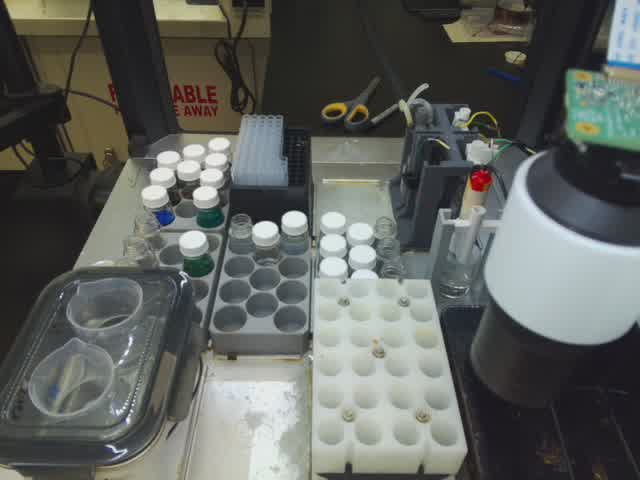
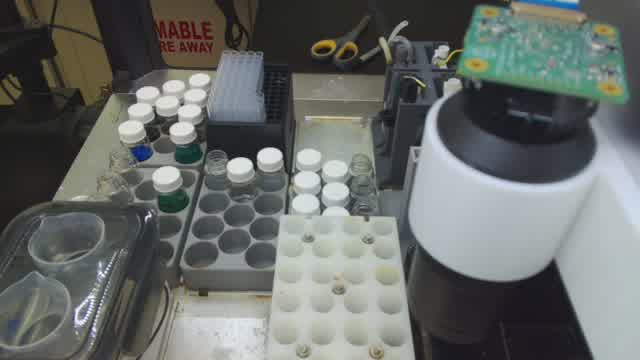
Update README and camserver to support dynamic recording presets (720p/1080p)

diff --git a/pi/camserver.py b/pi/camserver.py
@@ -16,8 +16,8 @@ HTTP API (default port 8080):
   GET /record/stop           stop recording
   GET /files                 JSON list of recordings
 
-Usage:  camserver.py [--port 8080] [--size auto|1280x720] [--fps 30] [--quality very_high]
-                     [--bitrate N] [--rotate180 0,1] [--outdir ~/recordings] [--autorecord]
+Usage:  camserver.py [--port 8080] [--profile 720p|1080p] [--fps 30] [--rotate180 0,1]
+                     [--outdir ~/recordings] [--autorecord]   (GET /profile?set=1080p switches live)
 """
 import argparse
 import datetime as dt
@@ -51,6 +51,15 @@ MODEL_NAMES = {
 }
 
 
+# Recording presets, switchable at runtime from the web page or GET /profile?set=<name>.
+# "1080p" is per camera: a 16:9 sensor gives 1920x1080; a 4:3 sensor (Camera V2) gives its full-view
+# 1640x1232 instead, because the V2's native 1920x1080 mode is a centre crop that loses most of the view.
+PROFILES = {
+    "720p": {"size": (1280, 720), "quality": Quality.HIGH},          # cool: ~15 % CPU per camera
+    "1080p": {"size": "1080p", "quality": Quality.VERY_HIGH},        # hot: throttles without a fan
+}
+
+
 class StreamingOutput(io.BufferedIOBase):
     """Holds the latest MJPEG frame; wakes HTTP clients when a new one arrives."""
 
@@ -73,42 +82,65 @@ class Cam:
     funnelled through one long-lived worker thread.
     """
 
-    def __init__(self, index, info, size, fps, lores, outdir, bitrate, quality, preview_quality, rotate180=False):
+    def __init__(self, index, info, profile, fps, lores, outdir, bitrate, preview_quality, rotate180=False):
         self.index = index
         self.model = info.get("Model", "unknown")
         self.name = MODEL_NAMES.get(self.model, self.model)
         self.outdir = Path(outdir)
-        self.bitrate = bitrate or None          # None -> derive from quality
-        self.quality = quality
+        self.bitrate = bitrate or None          # None -> derive from the profile's quality
         self.preview_quality = preview_quality
         self.rotate180 = rotate180
+        self.fps = fps
+        self.lores_req = lores                  # None -> 640 wide, same aspect as the recording
         self.recording_file = None
         self.lock = threading.Lock()
         self.worker = ThreadPoolExecutor(max_workers=1, thread_name_prefix=f"cam{index}-ctl")
 
         self.picam = Picamera2(camera_num=index)
-        size, sensor = pick_size(self.picam, size, fps)
-        if lores is None:   # same aspect as the recording, 640 wide
-            lores = (640, (640 * size[1] // size[0]) & ~1)
-        self.size, self.lores, self.fps = size, lores, fps
+        self.preview = StreamingOutput()
+        self.mjpeg = None
+        self.h264 = None
+        self.profile = None
+        self._apply(profile)
+
+    def _apply(self, profile):
+        """(Re)configure the camera for a profile and restart the MJPEG preview. Only called from
+        __init__ or the worker thread, never while recording."""
+        spec = PROFILES[profile]
+        size, sensor = pick_size(self.picam, spec["size"], self.fps)
+        lores = self.lores_req or (640, (640 * size[1] // size[0]) & ~1)
         cfg = self.picam.create_video_configuration(
             main={"size": size, "format": "YUV420"},
             lores={"size": lores, "format": "YUV420"},
             sensor=sensor,
-            controls={"FrameRate": fps},
-            transform=Transform(hflip=rotate180, vflip=rotate180),   # 180 deg for upside-down mounting
+            controls={"FrameRate": self.fps},
+            transform=Transform(hflip=self.rotate180, vflip=self.rotate180),   # 180 deg for upside-down mounting
         )
+        if self.mjpeg is not None:
+            self.picam.stop_encoder(self.mjpeg)
+            self.picam.stop()
         self.picam.configure(cfg)
-
-        self.preview = StreamingOutput()
-        self.mjpeg = MJPEGEncoder()
-        self.h264 = None
         self.picam.start()
         # MJPEG preview runs for the whole life of the server, from the small stream.
-        self.picam.start_encoder(self.mjpeg, FileOutput(self.preview), quality=preview_quality, name="lores")
-        log.info("cam%d: %s (%s) main=%s sensor=%s lores=%s fps=%s quality=%s preview=%s rotate180=%s", index,
-                 self.model, self.name, size, (sensor or {}).get("output_size"), lores, fps, quality.name,
-                 preview_quality.name, rotate180)
+        self.mjpeg = MJPEGEncoder()
+        self.picam.start_encoder(self.mjpeg, FileOutput(self.preview), quality=self.preview_quality, name="lores")
+        self.profile, self.size, self.lores, self.quality = profile, size, lores, spec["quality"]
+        log.info("cam%d: %s (%s) profile=%s main=%s sensor=%s lores=%s fps=%s quality=%s preview=%s rotate180=%s",
+                 self.index, self.model, self.name, profile, size, (sensor or {}).get("output_size"), lores,
+                 self.fps, self.quality.name, self.preview_quality.name, self.rotate180)
+
+    def set_profile(self, profile):
+        return self.worker.submit(self._set_profile, profile).result()
+
+    def _set_profile(self, profile):
+        with self.lock:
+            if profile not in PROFILES:
+                return {"error": f"unknown profile {profile!r}", "profile": self.profile}
+            if self.h264:
+                return {"error": "stop recording first", "profile": self.profile}
+            if profile != self.profile:
+                self._apply(profile)
+            return {"profile": self.profile, "size": list(self.size)}
 
     def start_recording(self, tag):
         return self.worker.submit(self._start_recording, tag).result()
@@ -163,15 +195,23 @@ INDEX_HTML = """<!doctype html><html><head><meta charset="utf-8"><title>OT-2 Pi 
 <style>body{font-family:system-ui;background:#111;color:#eee;margin:16px}
 .row{display:flex;flex-wrap:wrap;gap:16px}.cam{flex:1 1 480px}img{width:100%%;background:#000;border-radius:6px}
 button{font-size:16px;padding:8px 16px;margin:4px;border-radius:6px;border:0;cursor:pointer}
-#rec{background:#c33;color:#fff}#stop{background:#555;color:#fff}pre{background:#222;padding:8px;border-radius:6px;white-space:pre-wrap}</style>
+#rec{background:#c33;color:#fff}#stop{background:#555;color:#fff}pre{background:#222;padding:8px;border-radius:6px;white-space:pre-wrap}
+.prof{background:#333;color:#ccc}.prof.on{background:#2a7;color:#fff}#msg{color:#fc6;margin-left:8px}</style>
 </head><body><h2>OT-2 Pi Cameras</h2>
 <div><button id="rec" onclick="go('/record/start')">&#9679; Record all</button>
 <button id="stop" onclick="go('/record/stop')">&#9632; Stop</button>
-<button onclick="refresh()">Refresh status</button></div>
+<button onclick="refresh()">Refresh status</button>
+&nbsp; Quality: <button class="prof" id="p720p" onclick="prof('720p')">720p</button>
+<button class="prof" id="p1080p" onclick="prof('1080p')">1080p</button><span id="msg"></span></div>
 <div class="row">%s</div><pre id="status"></pre>
 <script>
 async function go(u){await fetch(u);refresh();}
-async function refresh(){const r=await fetch('/status');document.getElementById('status').textContent=JSON.stringify(await r.json(),null,2);}
+async function prof(p){const m=document.getElementById('msg');m.textContent='switching to '+p+'...';
+  const r=await fetch('/profile?set='+p);const j=await r.json();
+  m.textContent=r.ok?'':(j.cameras||[]).map(c=>c.error).filter(Boolean)[0]||j.error||'failed';refresh();}
+async function refresh(){const r=await fetch('/status');const j=await r.json();
+  document.getElementById('status').textContent=JSON.stringify(j,null,2);
+  for(const p of (j.profiles||[])){const b=document.getElementById('p'+p);if(b)b.className='prof'+(j.profile===p?' on':'');}}
 refresh();setInterval(refresh,3000);
 </script></body></html>"""
 
@@ -195,7 +235,9 @@ def make_handler(cams, outdir):
             out = Path(outdir)
             files = sorted(p.name for p in out.iterdir() if p.suffix in (".mp4", ".h264")) if out.exists() else []
             return {
-                "cameras": [{"index": c.index, "model": c.model, "name": c.name,
+                "profile": cams[0].profile if cams else None,
+                "profiles": list(PROFILES),
+                "cameras": [{"index": c.index, "model": c.model, "name": c.name, "profile": c.profile,
                              "size": list(c.size), "fps": c.fps, "quality": c.quality.name,
                              "rotate180": c.rotate180, "recording": c.recording_file} for c in cams],
                 "recording": any(c.recording_file for c in cams),
@@ -233,6 +275,16 @@ def make_handler(cams, outdir):
 
             if path == "/record/stop":
                 return self._json({"stopped": [c.stop_recording() for c in cams]})
+
+            if path == "/profile":
+                want = q.get("set", [""])[0]
+                if not want:
+                    return self._json({"profile": cams[0].profile if cams else None, "profiles": list(PROFILES)})
+                if want not in PROFILES:
+                    return self._json({"error": f"unknown profile {want!r}", "profiles": list(PROFILES)}, 400)
+                res = [c.set_profile(want) for c in cams]
+                code = 409 if any("error" in r for r in res) else 200
+                return self._json({"profile": cams[0].profile if cams else None, "cameras": res}, code)
 
             if path.startswith("/cam/"):
                 try:
@@ -297,23 +349,37 @@ def pick_size(picam, size, fps):
     full_w = max(m["crop_limits"][2] for m in modes)
     full_h = max(m["crop_limits"][3] for m in modes)
     full = [m for m in modes if tuple(m["crop_limits"]) == (0, 0, full_w, full_h)]
-    if size is not None:
-        return size, None
     ok = [m for m in full if m["fps"] >= fps] or full
-    best = max(ok, key=lambda m: m["size"][0] * m["size"][1])
-    return tuple(best["size"]), {"output_size": tuple(best["size"]), "bit_depth": best["bit_depth"]}
+
+    def sensor_of(m):
+        return {"output_size": tuple(m["size"]), "bit_depth": m["bit_depth"]}
+
+    def area(m):
+        return m["size"][0] * m["size"][1]
+
+    if size is None or size == "1080p":
+        best = max(ok, key=area)
+        w, h = best["size"]
+        if size == "1080p" and h > 1080 and abs(w / h - 16 / 9) < 0.02:
+            return (1920, 1080), sensor_of(best)
+        return (w, h), sensor_of(best)
+    # fixed WxH: the smallest full-view mode that covers it (never a cropped mode)
+    cover = [m for m in ok if m["size"][0] >= size[0] and m["size"][1] >= size[1]]
+    best = min(cover, key=area) if cover else max(ok, key=area)
+    return tuple(size), sensor_of(best)
 
 
 def main():
     ap = argparse.ArgumentParser(description=__doc__, formatter_class=argparse.RawDescriptionHelpFormatter)
     ap.add_argument("--port", type=int, default=8080)
-    ap.add_argument("--size", default="auto", help="recording resolution, WxH or auto = largest full-view "
-                    "sensor mode that reaches --fps (default auto)")
+    ap.add_argument("--profile", default="720p", help="recording preset at start: 720p or 1080p (default 720p); "
+                    "switchable later from the page or /profile?set=")
+    ap.add_argument("--size", default="", help="custom preset instead: WxH, or auto = largest full-view sensor mode at --fps")
+    ap.add_argument("--quality", default="high", choices=[q.name.lower() for q in Quality],
+                    help="encoder quality for the custom --size preset (default high)")
     ap.add_argument("--lores", default="auto", help="preview resolution (default auto: 640 wide, same aspect)")
     ap.add_argument("--fps", type=int, default=30)
-    ap.add_argument("--quality", default="very_high", choices=[q.name.lower() for q in Quality],
-                    help="encoder quality tier for recording and preview (default very_high)")
-    ap.add_argument("--bitrate", type=int, default=0, help="fixed H.264 bitrate in bit/s (0 = derive from --quality)")
+    ap.add_argument("--bitrate", type=int, default=0, help="fixed H.264 bitrate in bit/s (0 = derive from quality)")
     ap.add_argument("--preview-quality", default="medium", choices=[q.name.lower() for q in Quality],
                     help="MJPEG live-preview quality (default medium; very_high is ~8 Mbit/s per camera over Wi-Fi)")
     ap.add_argument("--outdir", default=os.path.expanduser("~/recordings"))
@@ -335,8 +401,14 @@ def main():
         log.warning("ffmpeg not installed: recordings will be raw .h264 (sudo apt install ffmpeg for .mp4)")
 
     flipped = {int(x) for x in a.rotate180.split(",") if x.strip()}
-    quality, pquality = Quality[a.quality.upper()], Quality[a.preview_quality.upper()]
-    cams = [Cam(i.get("Num", n), i, parse_size(a.size), a.fps, parse_size(a.lores), a.outdir, a.bitrate, quality,
+    profile = a.profile
+    if a.size:
+        PROFILES["custom"] = {"size": parse_size(a.size), "quality": Quality[a.quality.upper()]}
+        profile = "custom"
+    if profile not in PROFILES:
+        ap.error(f"--profile must be one of {', '.join(PROFILES)}")
+    pquality = Quality[a.preview_quality.upper()]
+    cams = [Cam(i.get("Num", n), i, profile, a.fps, parse_size(a.lores), a.outdir, a.bitrate,
                 pquality, rotate180=i.get("Num", n) in flipped)
             for n, i in enumerate(infos)]
 

diff --git a/pi/record.py b/pi/record.py
@@ -5,7 +5,7 @@ Headless recorder: record every attached Pi camera to .mp4 at once.
   record.py                 record until Ctrl-C
   record.py -d 60           record for 60 seconds
   record.py -d 60 -n run7   files named <ts>_run7_cam<n>_<model>.mp4
-  record.py --size 1280x720 --fps 30 --bitrate 6000000   (default: --size auto, --quality very_high)
+  record.py --size auto --quality very_high   (default 1280x720 / high; auto = largest full-view mode)
 
 Files land in ~/recordings by default. Use camserver.py instead if you also want a live view.
 """
@@ -42,9 +42,9 @@ def main():
     ap = argparse.ArgumentParser(description=__doc__, formatter_class=argparse.RawDescriptionHelpFormatter)
     ap.add_argument("-d", "--duration", type=float, default=0, help="seconds (0 = until Ctrl-C)")
     ap.add_argument("-n", "--name", default="", help="tag to put in the filename")
-    ap.add_argument("--size", default="auto", help="WxH, or auto = largest full-view sensor mode at --fps")
+    ap.add_argument("--size", default="1280x720", help="WxH, or auto = largest full-view sensor mode at --fps")
     ap.add_argument("--fps", type=int, default=30)
-    ap.add_argument("--quality", default="very_high", choices=[q.name.lower() for q in Quality])
+    ap.add_argument("--quality", default="high", choices=[q.name.lower() for q in Quality])
     ap.add_argument("--bitrate", type=int, default=0, help="fixed bitrate (0 = derive from --quality)")
     ap.add_argument("--outdir", default=os.path.expanduser("~/recordings"))
     ap.add_argument("--cams", default="", help="comma list of camera indexes (default: all)")

diff --git a/README.md b/README.md
@@ -44,19 +44,24 @@ No laptop hotspot? The Pi broadcasts `OT2-Cam-Pi` (password `ot2camera`) instead
   `ot2-record` defaults to the same. The 180° transform is done in libcamera, so streams, snapshots
   and recordings are all upright. `--rotate180 ""` for none, `--rotate180 1` for one camera;
   `/status` reports `rotate180` per camera.
-- Quality is set to the maximum that still gives 30 fps with the full field of view (2026-11-11):
-  `--size auto --quality very_high`. auto picks the largest *uncropped* sensor mode that reaches
-  `--fps`: V2 1640x1232, Module 3 Wide 2304x1296 (the V2's 1920x1080 mode is a centre crop and is
-  skipped; the full 8/12 MP modes only do 21/14 fps). very_high lets picamera2 derive the H.264
-  bitrate from the resolution (measured 15 and 18 Mbit/s), so a minute of both cameras is ~250 MB.
+- Two recording presets, switchable live from the page's **720p / 1080p** buttons or
+  `GET /profile?set=1080p` (refused with 409 while recording; stop first). The service boots in
+  **720p** because the Pi has no fan (see Thermal).
+  | preset | V2 (cam0) | Module 3 Wide (cam1) | quality | measured bitrate |
+  |---|---|---|---|---|
+  | 720p | 1280x720 | 1280x720 | high | ~7.5 Mbit/s each |
+  | 1080p | 1640x1232 | 1920x1080 | very_high | ~15 Mbit/s each |
+  Both presets always use an *uncropped* sensor mode (V2 1640x1232, Wide 2304x1296) and scale in
+  the ISP, so the field of view never changes. The V2 gets 1640x1232 in the 1080p preset because
+  its native 1920x1080 mode is a centre crop that loses most of the view. The full 8/12 MP modes
+  only do 21/14 fps, so there is no higher preset. `--size WxH --quality X` adds a custom preset.
   The live preview has its own `--preview-quality` (default medium, ~3.7 Mbit/s per camera over the
   hotspot; very_high was 8.5 Mbit/s per camera and made the page stall). It never affects the files.
-- **Thermal:** the Pi has no fan and idles at ~77 °C in its mount. Recording both cameras at these
-  settings pushes it to 86 °C within 15 s, the CPU throttles from 2.4 to 1.5 GHz, and over 90 s the
-  wide camera dropped ~1.5 % of frames (V2 none). Fit the official Pi 5 Active Cooler (fan header is
-  next to the Ethernet jack) or give the enclosure airflow. Until then, if dropped frames matter more
-  than resolution, use the lighter setting in `camserver.service`:
-  `--size 1280x720 --quality high` (verified ~15 % CPU per camera, no throttling).
+- **Thermal:** the Pi has no fan and idles at ~78 °C in its mount. Recording both cameras in the
+  1080p preset (or the former 2304x1296 setting) pushes it to 86 °C within 15 s, the CPU throttles
+  from 2.4 to 1.5 GHz, and over 90 s the wide camera dropped ~1.5 % of frames (V2 none). That is why
+  720p is the default; use 1080p for short clips, or fit the official Pi 5 Active Cooler (fan header
+  next to the Ethernet jack) and change `--profile` in `camserver.service` to boot in 1080p.
 - **Silent hotspot drops (seen 2026-11-11 13:00):** the Windows hotspot logged "Wireless security
   stopped" for the Pi and stopped forwarding, but never sent a deauth, so the Pi believed it was
   connected for 4 minutes until it was power-cycled. Two countermeasures are installed: Wi-Fi power
@@ -138,7 +143,8 @@ from the main stream. Streaming never degrades the recorded file.
 | `/cam/0.jpg` | single snapshot |
 | `/record/start?name=run7` | start recording **both** cameras |
 | `/record/stop` | stop |
-| `/status`, `/files` | JSON (status includes size, fps, quality and `rotate180` per camera) |
+| `/profile?set=720p` or `1080p` | switch recording preset live (409 while recording) |
+| `/status`, `/files` | JSON (status includes `profile`, size, fps, quality and `rotate180` per camera) |
 
 Files go to `~/recordings/<timestamp>_<name>_cam<n>_<CamV2|CamV3Wide>.mp4`. From Python on the PC
 (for OT-2 protocol integration) it is just `requests.get("http://10.55.0.1:8080/record/start?name=step3")`.
